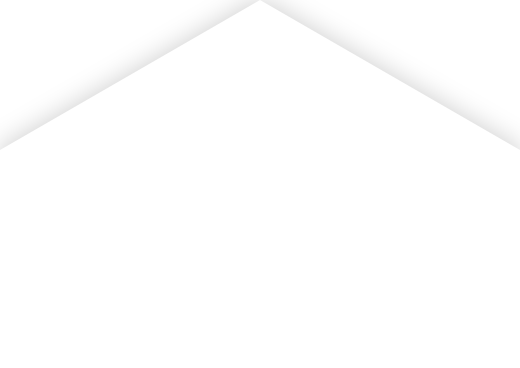
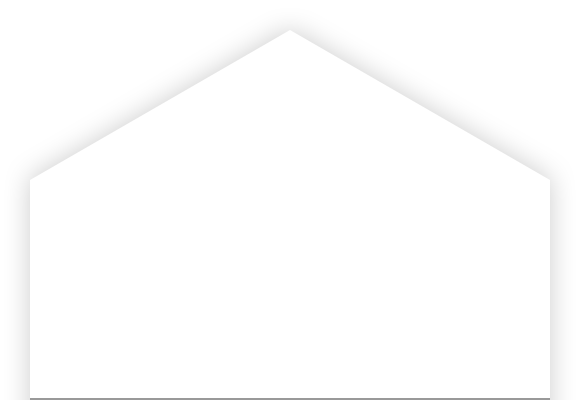
Finish layout for lessons list vc

Changed region(s): [[0.0308, 0.9864, 0.9538, 1.0]]

diff --git a/fanto/fanto/viewcontrollers/profile/lessons-list/FTHexagonLessonsListViewController.m b/fanto/fanto/viewcontrollers/profile/lessons-list/FTHexagonLessonsListViewController.m
@@ -7,6 +7,7 @@
 //
 
 #import "FTHexagonLessonsListViewController.h"
+#import "FTHexagonLessonView.h"
 #import "MLesson.h"
 
 #define kNormalLessonWidth        230.f
@@ -22,9 +23,9 @@
 
 - (void)setupLessonsScrollView;
 - (void)updateFocusedLesson;
-- (void)focusLesson:(UIView *)lessonView atIndex:(NSInteger)index focused:(BOOL)focused;
-- (UIView *)lessonViewAtIndex:(NSInteger)lessonIndex;
-- (void)scaleLessonView:(UIView *)lessonView withRatio:(CGFloat)scaleRatio;
+- (void)focusLesson:(FTHexagonLessonView *)lessonView atIndex:(NSInteger)index focused:(BOOL)focused;
+- (FTHexagonLessonView *)lessonViewAtIndex:(NSInteger)lessonIndex;
+- (void)scaleLessonView:(FTHexagonLessonView *)lessonView withRatio:(CGFloat)scaleRatio;
 - (void)testOut;
 
 @end
@@ -79,7 +80,7 @@
   CGFloat delta = _vLessonsScrollView.contentOffset.x - _currentFocusedLessonIndex * _vLessonsScrollView.frame.size.width;
   CGFloat scaleRatio = ABS(delta) / kFocusedLessonWidth;
   
-  UIView *lessonView = [self lessonViewAtIndex:_currentFocusedLessonIndex];
+  FTHexagonLessonView *lessonView = [self lessonViewAtIndex:_currentFocusedLessonIndex];
   [self scaleLessonView:lessonView withRatio:-scaleRatio];
   
   // Calculate which lesson view is scaled up: 1 = right; -1 = left
@@ -97,33 +98,28 @@
     [subview removeFromSuperview];
   
   [_lessonsData enumerateObjectsUsingBlock:^(MLesson *lesson, NSUInteger index, BOOL *stop) {
-    CGRect frame = _vLessonsScrollView.frame;
+    FTHexagonLessonView *lessonView = [[FTHexagonLessonView alloc] initWithLesson:lesson atIndex:index forTarget:self];
+    CGRect frame = lessonView.frame;
     frame.origin = CGPointMake(index * _vLessonsScrollView.frame.size.width, 0);
-    UIView *lessonView = [[UIView alloc] initWithFrame:frame];
-    lessonView.backgroundColor = [UIColor whiteColor];
-    lessonView.tag = index;
-    UILabel *label = [[UILabel alloc] initWithFrame:(CGRect){CGPointZero, lessonView.frame.size}];
-    label.text = [NSString stringWithFormat:@"%d", index];
-    label.textAlignment = NSTextAlignmentCenter;
-    [lessonView addSubview:label];
+    lessonView.frame = frame;
     [_vLessonsScrollView addSubview:lessonView];
   }];
   
   _vLessonsScrollView.contentSize = CGSizeMake([_lessonsData count] * _vLessonsScrollView.frame.size.width,
                                                _vLessonsScrollView.frame.size.height);
   
-  UIView *lessonView = [_vLessonsScrollView.subviews firstObject];
-  [self focusLesson:lessonView atIndex:lessonView.tag focused:YES];
+  FTHexagonLessonView *lessonView = [_vLessonsScrollView.subviews firstObject];
+  [self focusLesson:lessonView atIndex:lessonView.index focused:YES];
 }
 
 - (void)updateFocusedLesson {
   NSInteger index = _vLessonsScrollView.contentOffset.x / _vLessonsScrollView.frame.size.width;
   
-  for (UIView *lessonView in _vLessonsScrollView.subviews)
-    [self focusLesson:lessonView atIndex:lessonView.tag focused:lessonView.tag == index];
+  for (FTHexagonLessonView *lessonView in _vLessonsScrollView.subviews)
+    [self focusLesson:lessonView atIndex:lessonView.index focused:lessonView.index == index];
 }
 
-- (void)focusLesson:(UIView *)lessonView atIndex:(NSInteger)index focused:(BOOL)focused {
+- (void)focusLesson:(FTHexagonLessonView *)lessonView atIndex:(NSInteger)index focused:(BOOL)focused {
   CGRect frame = lessonView.frame;
   
   if (focused) {
@@ -131,26 +127,24 @@
     frame.origin.x = _vLessonsScrollView.frame.size.width * index +
     (_vLessonsScrollView.frame.size.width - frame.size.width)/2;
     frame.origin.y = _vLessonsScrollView.frame.size.height - frame.size.height;
-    lessonView.backgroundColor = [UIColor whiteColor];
     [_vLessonsScrollView bringSubviewToFront:lessonView];
   } else {
     frame.size = _vLessonsScrollView.frame.size;
     frame.origin = CGPointMake(index * _vLessonsScrollView.frame.size.width, 0);
-    lessonView.backgroundColor = [UIColor blackColor];
   }
   
   lessonView.frame = frame;
 }
 
-- (UIView *)lessonViewAtIndex:(NSInteger)lessonIndex {
-  for (UIView *subview in _vLessonsScrollView.subviews)
-    if (subview.tag == lessonIndex)
-      return subview;
+- (FTHexagonLessonView *)lessonViewAtIndex:(NSInteger)lessonIndex {
+  for (FTHexagonLessonView *lessonView in _vLessonsScrollView.subviews)
+    if (lessonView.index == lessonIndex)
+      return lessonView;
   
   return nil;
 }
 
-- (void)scaleLessonView:(UIView *)lessonView withRatio:(CGFloat)scaleRatio {
+- (void)scaleLessonView:(FTHexagonLessonView *)lessonView withRatio:(CGFloat)scaleRatio {
   if (lessonView == nil)
     return;
   
@@ -164,7 +158,7 @@
     frame.size.height = kFocusedLessonHeight - (kFocusedLessonHeight - kNormalLessonHeight) * ABS(scaleRatio);
   }
   
-  frame.origin.x = _vLessonsScrollView.frame.size.width * lessonView.tag + (_vLessonsScrollView.frame.size.width - frame.size.width)/2;
+  frame.origin.x = _vLessonsScrollView.frame.size.width * lessonView.index + (_vLessonsScrollView.frame.size.width - frame.size.width)/2;
   frame.origin.y = _vLessonsScrollView.frame.size.height - frame.size.height;
   lessonView.frame = frame;
 }

diff --git a/fanto/fanto/viewcontrollers/profile/lessons-list/FTHexagonLessonView.m b/fanto/fanto/viewcontrollers/profile/lessons-list/FTHexagonLessonView.m
@@ -1,0 +1,31 @@
+//
+//  FTHexagonLessonView.m
+//  fanto
+//
+//  Created by Ethan on 9/15/14.
+//  Copyright (c) 2014 Ethan Nguyen. All rights reserved.
+//
+
+#import "FTHexagonLessonView.h"
+#import "MLesson.h"
+
+@interface FTHexagonLessonView () {
+  MLesson *_lessonData;
+}
+
+@end
+
+@implementation FTHexagonLessonView
+
+- (id)initWithLesson:(MLesson *)lesson atIndex:(NSInteger)index forTarget:(id)target {
+  if (self = [super init]) {
+    LoadXibWithSameClass();
+    _lessonData = lesson;
+    _index = index;
+    _delegate = target;
+  }
+  
+  return self;
+}
+
+@end

diff --git a/fanto/fanto/viewcontrollers/profile/lessons-list/FTHexagonLessonView.h b/fanto/fanto/viewcontrollers/profile/lessons-list/FTHexagonLessonView.h
@@ -1,0 +1,21 @@
+//
+//  FTHexagonLessonView.h
+//  fanto
+//
+//  Created by Ethan on 9/15/14.
+//  Copyright (c) 2014 Ethan Nguyen. All rights reserved.
+//
+
+#import <UIKit/UIKit.h>
+
+@class MLesson;
+
+@interface FTHexagonLessonView : UIView {
+}
+
+@property (nonatomic, assign) id<FTLessonViewDelegate> delegate;
+@property (nonatomic, assign) NSInteger index;
+
+- (id)initWithLesson:(MLesson *)lesson atIndex:(NSInteger)index forTarget:(id)target;
+
+@end

diff --git a/fanto/fanto/FTSharedHeader.h b/fanto/fanto/FTSharedHeader.h
@@ -9,11 +9,18 @@
 #import <Foundation/Foundation.h>
 #import <UIKit/UIKit.h>
 
-@class MSkill;
+@class MSkill, MLesson;
 
 @protocol FTSkillViewDelegate <NSObject>
 
 @optional
 - (void)skillViewDidSelectSkill:(MSkill *)skill;
+
+@end
+
+@protocol FTLessonViewDelegate <NSObject>
+
+@optional
+- (void)lessonViewDidSelectLesson:(MLesson *)lesson;
 
 @end

diff --git a/fanto/fanto/viewcontrollers/profile/lessons-list/FTHexagonLessonsListViewController.h b/fanto/fanto/viewcontrollers/profile/lessons-list/FTHexagonLessonsListViewController.h
@@ -10,7 +10,7 @@
 
 @class MSkill;
 
-@interface FTHexagonLessonsListViewController : BaseViewController <UIScrollViewDelegate> {
+@interface FTHexagonLessonsListViewController : BaseViewController <UIScrollViewDelegate, FTLessonViewDelegate> {
   IBOutlet UIImageView *_imgSkillIcon;
   IBOutlet UIScrollView *_vLessonsScrollView;
 }
